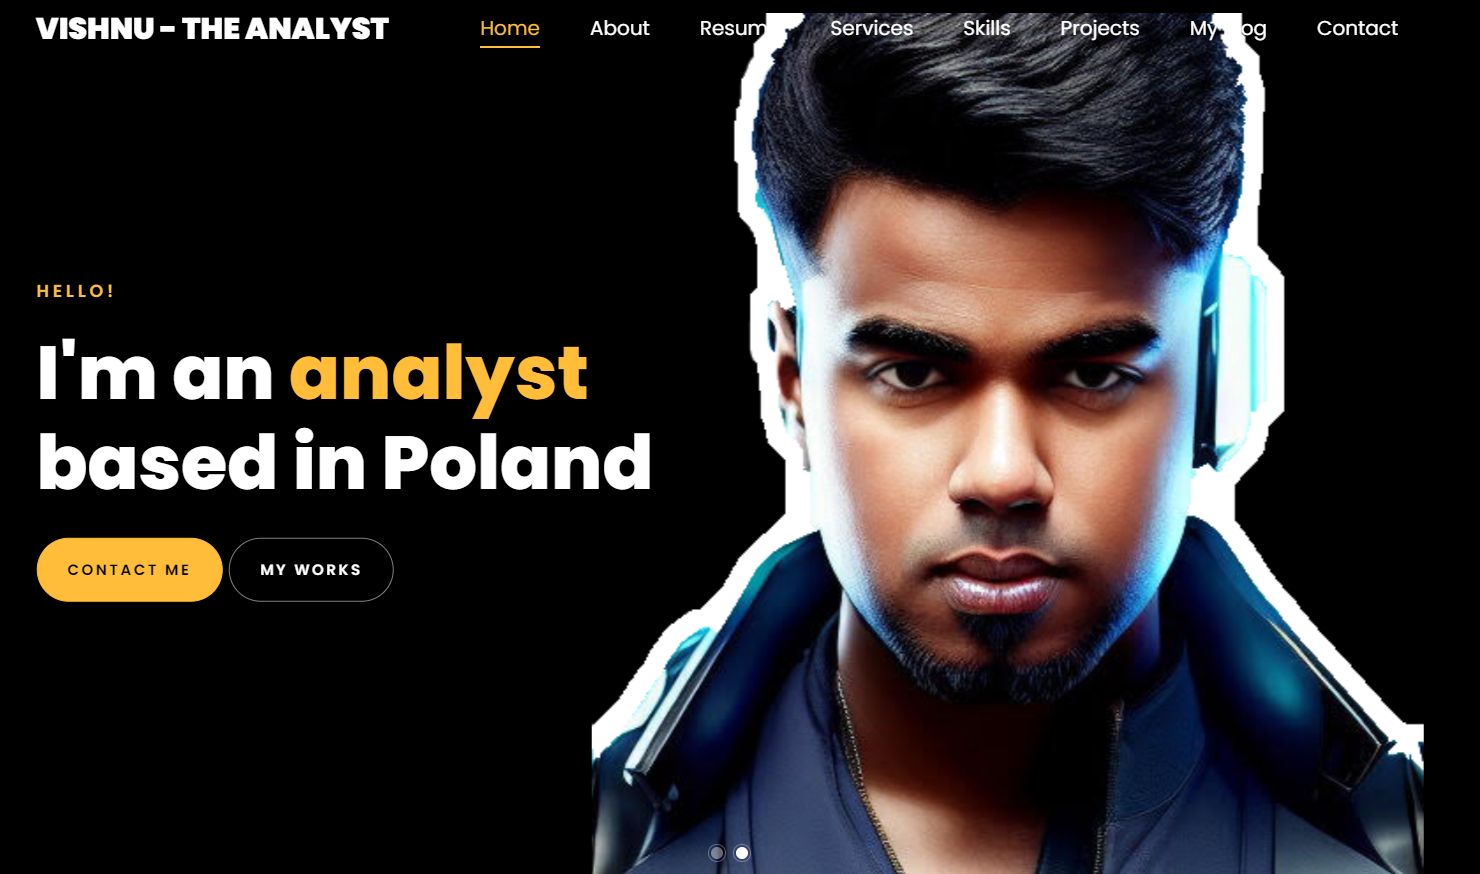
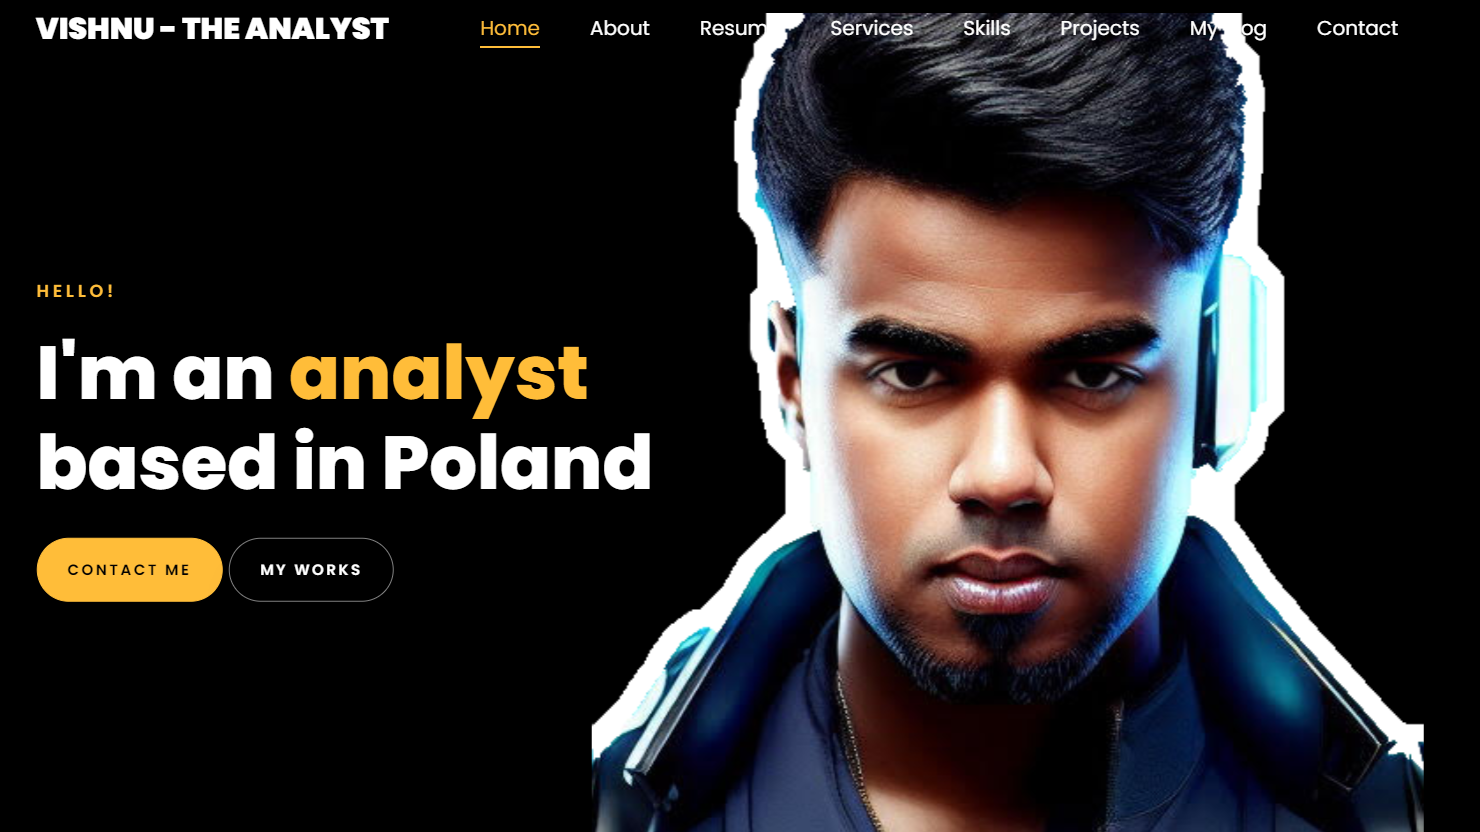
cropport1

diff --git a/index.html b/index.html
@@ -745,10 +745,10 @@ Scheduling activities of a team composed of 60 persons Working with internationa
             <div class="ag-timeline-card_item">
               <div class="ag-timeline-card_inner">
                 <div class="ag-timeline-card_img-box">
-                  <img src="https://raw.githubusercontent.com/SochavaAG/example-mycode/master/pens/timeline/images/img-1.png" class="ag-timeline-card_img" width="640" height="360" />
+                  <img src="images/port1.PNG" width="640" height="360" />
                 </div>
                 <div class="ag-timeline-card_info">
-                  <div class="ag-timeline-card_title">Season 1</div>
+                  <div class="ag-timeline-card_title">Portfolio site</div>
                   <div class="ag-timeline-card_desc">
                     After successfully submitting my Master's thesis, I have decided to spend my spare time on preparing a portfolio for my personal projects. To keep myself in touch with the different tools and subjects I plan to work on various data science, BI and AI projects which I will be posting here. 
                   </div>
